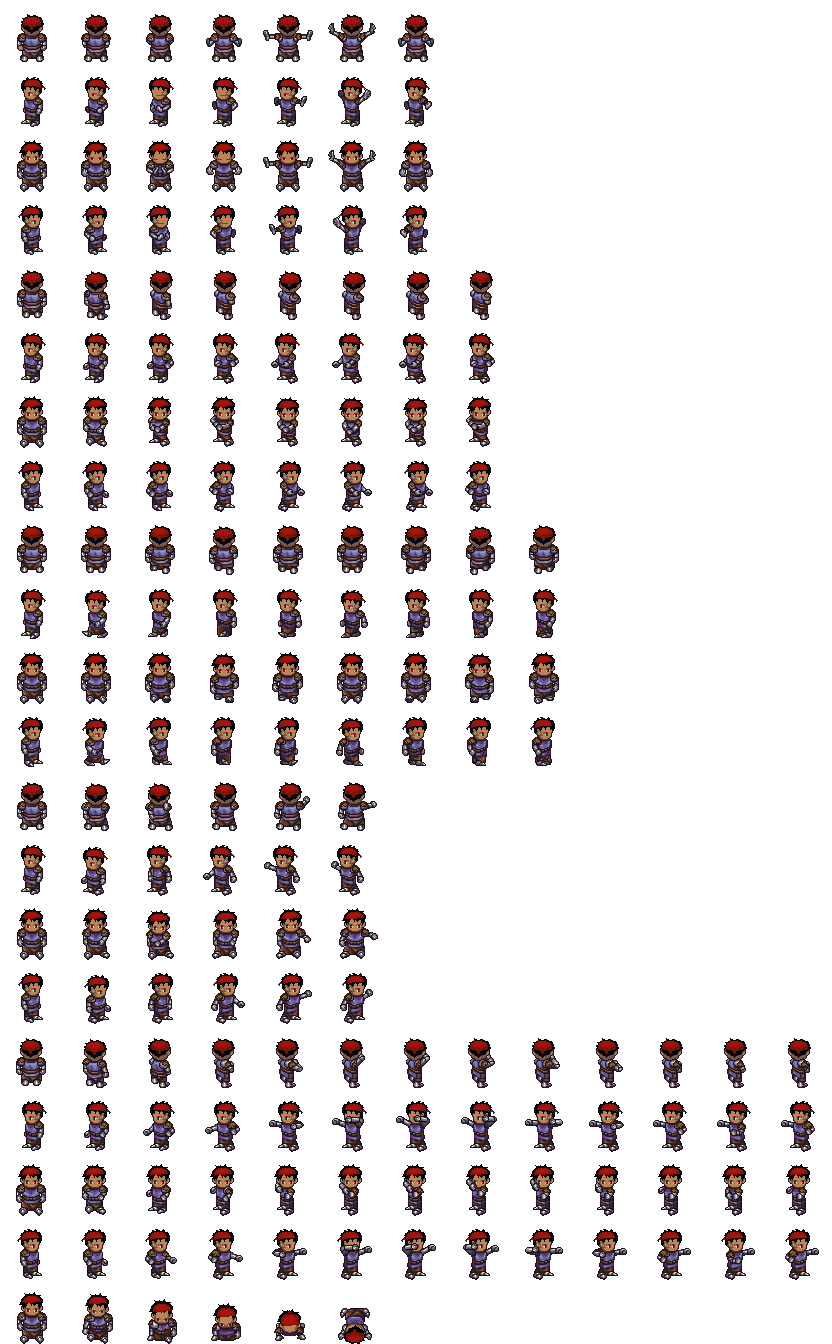
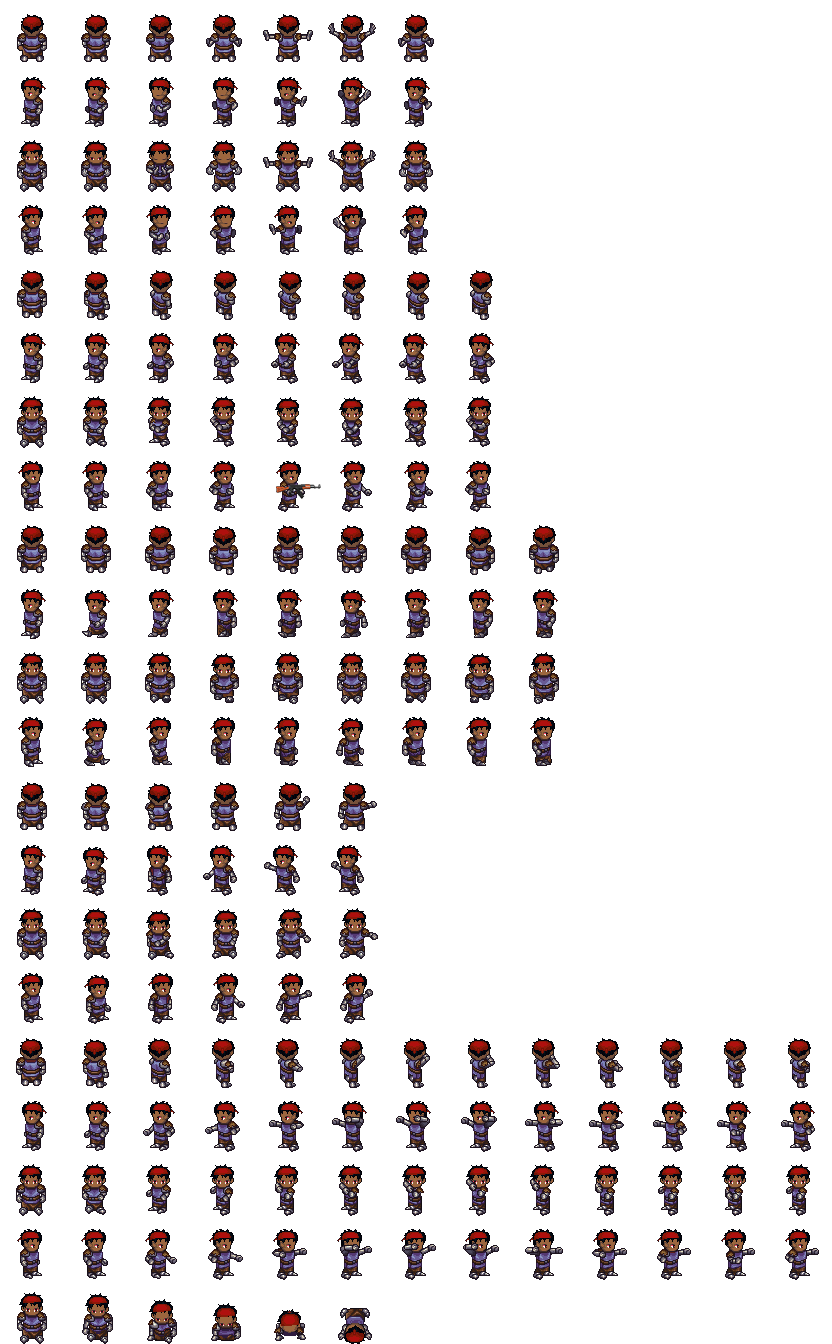
I like turtles

diff --git a/js/entities/entities.js b/js/entities/entities.js
@@ -16,16 +16,22 @@ game.PlayerEntity = me.Entity.extend({
         this.health = game.data.playerHealth;
         this.body.setVelocity(game.data.playerMoveSpeed, 20);
         this.dead = false;
-
-        this.renderable.addAnimation("idle", [78]);
+        me.game.viewport.follow(this.pos, me.game.viewport.AXIS.BOTH);
+        this.alwaysUpdate = true;
+        this.renderable.addAnimation("idle", [69]);
         this.renderable.addAnimation("walk", [117, 118, 119, 120, 121, 122, 123, 124, 125], 80);
 
         this.renderable.setCurrentAnimation("idle");
 
     },
+    
+    setPlayerTimers: function() {
+        this.lastBullet = this.now;
+    },
+    
+    
     update: function(delta) {
         this.now = new Date().getTime();
-
         if (this.health <= 0) {
             this.dead = true;
         }
@@ -34,7 +40,7 @@ game.PlayerEntity = me.Entity.extend({
         this.setAnimation();
         me.collision.check(this, true, this.collideHandler.bind(this), true);
 
-        me.game.viewport.follow(this.pos, me.game.viewport.AXIS.BOTH);
+        
         this.body.update(delta);
         this._super(me.Entity, "update", [delta]);
         return true;
@@ -74,6 +80,15 @@ game.PlayerEntity = me.Entity.extend({
         this.body.vel.y -= this.body.accel.y * me.timer.tick;
 
     },
+    
+    shootGun: function() {
+        if((this.now-this.lastBullet) >= game.data.bulletTimer * 1000) {
+        this.lastBullet = this.now;
+            var bullet = me.pool.pull("bullet", this.pos.x, this.pos.y, {}, this.facing);
+            me.game.world.addChild(bullet, 10);
+        }
+    },
+    
     setAnimation: function() {
         if (this.attacking) {
             if (!this.renderable.isCurrentAnimation("attack")) {
@@ -98,7 +113,7 @@ game.PlayerEntity = me.Entity.extend({
     //loses health
     loseHealth: function(damage) {
         this.health = this.health - damage;
-        console.log(this.health);
+        //console.log(this.health);
     },
     //handles collisions with other entities
     collideHandler: function(response) {
@@ -162,14 +177,23 @@ game.EnemyCreep = me.Entity.extend({
     },
     update: function(delta) {
         this.now = new Date().getTime();
+
+        
+             if (this.pos.x <= game.data.player.pos.x) {
+              this.body.vel.x += this.body.accel.x * me.timer.tick;
+              this.flipX(true);
+          }else{
+                    
         this.body.vel.x -= this.body.accel.x * me.timer.tick;
+        this.flipX(false);
+                }
 
-        me.collision.check(this, true, this.collideHandler.bind(this), true);
-
-
+me.collision.check(this, true, this.collideHandler.bind(this), true);
+        
+            
         this.body.update(delta);
         this._super(me.Entity, "update", [delta]);
-
+        
         return true;
     },
     collideHandler: function(response) {
@@ -181,7 +205,7 @@ game.EnemyCreep = me.Entity.extend({
 
 
             if (xdif > 0) {
-               // this.pos.x = this.pos.x + 1;
+                // this.pos.x = this.pos.x + 1;
                 //keeps moving the creep to the right to maintain its position
                 this.body.vel.x = 0;
             }
@@ -207,20 +231,22 @@ game.GameManager = Object.extend({
     },
     update: function() {
         this.now = new Date().getTime();
-        
-        if(game.data.player.dead) {
+
+                //if the player is dead then it removes the player and restarts him
+        if (game.data.player.dead) {
             me.game.world.removeChild(game.data.player);
-            this.resetPlayer(10, 0);
+            me.state.current().resetPlayer(10, 6000);
+            
+            return true;
         }
 
         if (Math.round(this.now / 1000) % 10 === 0 && (this.now - this.lastCreep >= 300)) {
             this.lastCreep = this.now;
             var creepe = me.pool.pull("EnemyCreep", game.data.player.pos.x + 3000, 6000, {});
             me.game.world.addChild(creepe, 10);
-
-            var creepe = me.pool.pull("EnemyCreep", game.data.player.pos.x + 4000, 6000, {});
-            me.game.world.addChild(creepe, 10);
+            
         }
         return true;
     }
+
 });

diff --git a/js/entities/shootGun.js b/js/entities/shootGun.js
@@ -1,0 +1,41 @@
+game.shootGun = me.Entity.extend({
+    init: function(x, y, settings, facing) {
+        this._super(me.Entity, 'init', [x, y, {
+                image: "bullet",
+                width: 48,
+                height: 48,
+                spritewidth: "48",
+                spriteheight: "48",
+                getShape: function() {
+                    return (new me.Rect(0, 0, 48, 48)).toPolygon();
+                }
+            }]);
+        this.alwaysUpdate = true;
+        this.body.setVelocity(8, 0);
+        this.attack = game.data.playerAttack;
+        this.type = "bullet";
+        this.facing - facing;
+    },
+    update: function(delta) {
+        if(this.facing === "left") {
+        this.body.vel.x -= this.body.accel.x * me.timer.tick;
+    }else {
+        this.body.vel.x += this.body.accel.x * me.timer.tick;
+    }
+        me.collision.check(this, true, this.collideHandler.bind(this), true);
+
+        this.body.update(delta);
+        this._super(me.Entity, "update", [delta]);
+
+        return true;
+
+    },
+    
+     collideHandler: function(response) {
+        if (response.b.type === 'EnemyCreep') {
+            this.body.vel.x = 0;
+                response.b.loseHealth(this.attack);
+                me.game.world.removeChild(this);
+            }
+        }
+});

diff --git a/js/screens/play.js b/js/screens/play.js
@@ -10,8 +10,6 @@ game.PlayScreen = me.ScreenObject.extend({
                 
                 me.state.current().resetPlayer(0, 420);
                 
-                game.data.player = me.pool.pull("player", x, y, {});
-                me.game.world.addChild(game.data.player, 10);
                 
                 var gamemanager = me.pool.pull("GameManager", 0, 0, {});
                 me.game.world.addChild(gamemanager, 0);
@@ -36,7 +34,8 @@ game.PlayScreen = me.ScreenObject.extend({
 	},
         
           resetPlayer: function(x, y) {
-             game.data.player = me.pool.pull("player", x, y, {});
+              console.log("resetting");
+                game.data.player = me.pool.pull("player", x, y, {});
                 me.game.world.addChild(game.data.player, 10);
         }
 });

diff --git a/js/game.js b/js/game.js
@@ -20,8 +20,9 @@ var game = {
         creepMoveSpeed: 5,
         gameTimerManager: "",
         heroDeathManager: "",
+        bulletTimer: 1,
         player: "",
-        win: "",
+        win: ""
 
 	},
 	
@@ -62,6 +63,7 @@ var game = {
                 me.pool.register("player", game.PlayerEntity, true);
                 me.pool.register("EnemyCreep", game.EnemyCreep, true);
                 me.pool.register("GameManager", game.GameManager);
+                me.pool.register("bullet", game.shootGun);
             
 		me.state.set(me.state.MENU, new game.TitleScreen());
 		me.state.set(me.state.PLAY, new game.PlayScreen());

diff --git a/js/resources.js b/js/resources.js
@@ -12,6 +12,7 @@ game.resources = [
         {name: "new-screen", type: "image", src: "data/img/loadpic.png"},
         {name: "load-screen", type: "image", src: "data/img/title.png"},
         {name: "city", type: "image", src: "data/img/city.jpg"},
+        {name: "bullet", type: "image", src: "data/img/fireball.png"},
 
 	/* Atlases 
 	 * @example

diff --git a/index.php b/index.php
@@ -50,6 +50,7 @@ require_once("php/controller/create-db.php");
 
         <script type="text/javascript" src="js/entities/entities.js"></script>
         <script type="text/javascript" src="js/entities/HUD.js"></script>
+        <script type="text/javascript" src="js/entities/shootGun.js"></script>
 
         <script type="text/javascript" src="js/screens/title.js"></script>
         <script type="text/javascript" src="js/screens/play.js"></script>
